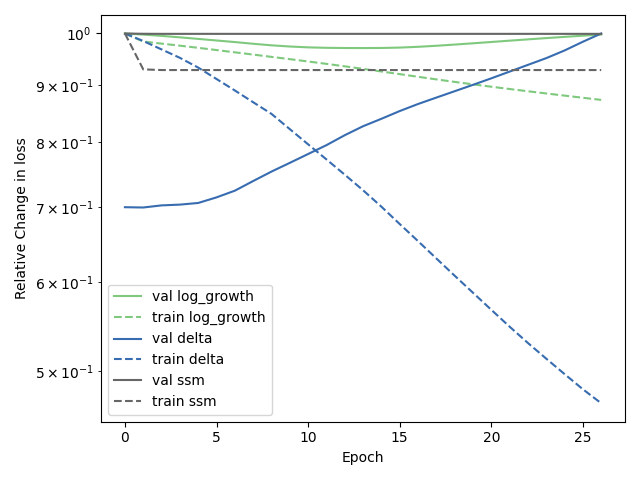
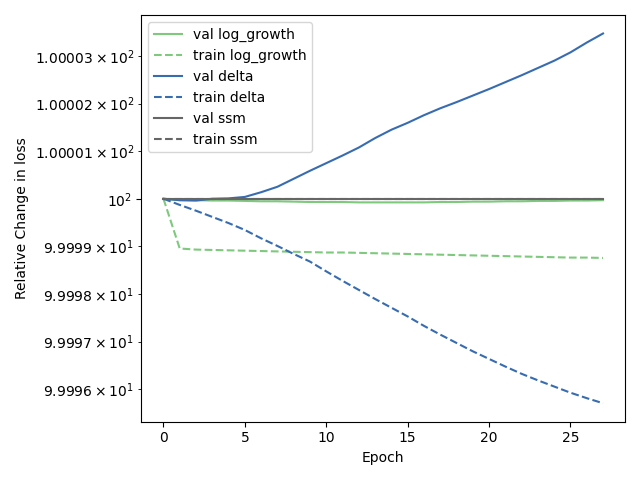
power loss

diff --git a/src/visualize/compare.py b/src/visualize/compare.py
@@ -4,7 +4,7 @@ import matplotlib.pyplot as plt
 from config import Config
 from mpl_toolkits.axes_grid1 import make_axes_locatable
 from powerbox import get_power
-from cosmos import compute_overdensity, to_redshift, normalize, normalize_inv
+from cosmos import compute_overdensity, to_redshift, normalize, normalize_inv, SpectralLoss
 from matplotlib.cm import get_cmap
 
 def compare(
@@ -20,6 +20,8 @@ def compare(
 
     print(num_predictions)
 
+    N = sequences[0].shape[-1]
+
     # Create figure
     fig = plt.figure(layout='constrained', figsize=(4 + 3 * num_predictions, 10),  constrained_layout=True)
     subfigs = fig.subfigures(2, 1, wspace=0.07, hspace=0.1, height_ratios=[2, 1] if num_predictions > 0 else [1, 1])
@@ -29,6 +31,8 @@ def compare(
     # Main sequence analysis part
     # ax_cdf = fig.add_subplot(spec_stats[0], adjustable='box', aspect=0.1)
     ax_power = fig.add_subplot(spec_stats[0], adjustable='box', aspect=0.1)
+    # ax_sl =  fig.add_subplot(spec_stats[1], adjustable='box', aspect=0.1)
+
     cmap = get_cmap('viridis')
     colors = cmap(jnp.linspace(0, 1, 6))
     
@@ -69,6 +73,8 @@ def compare(
         label=fr'sim $z = {to_redshift(step/100):.2f}$')
         # color=colors[frame])
     
+    spectral_loss = SpectralLoss(N, 20)
+    
     # Process predictions
     for idx in range(num_predictions):
 
@@ -94,7 +100,6 @@ def compare(
         delta = compute_overdensity(rho)
 
         rho_pred_normalized = pred_curr[frame]
-        attribs = jax.device_put(attributes_curr[frame + 1], device=jax.devices("gpu")[0])
         rho_pred = normalize_inv(rho_pred_normalized, attribs,  norm_functions[idx])
         delta_pred = compute_overdensity(rho_pred)
 
@@ -171,6 +176,13 @@ def compare(
             k_pred, p_pred,
             label=fr'pred {labels[idx]}')
         
+        # k, p = spectral_loss(delta_pred[:, :, :, 0], delta[:, :, :, 0])
+        # print(k)
+        # print(p)
+        # k *= 60
+        # ax_sl.plot(
+        #     k, p,  label=fr'pred {labels[idx]}')
+        
         # p_pred, k_pred = get_power(delta_pred_filtered[:, :, :, 0], config.box_size)
         # ax_power.plot(
         #     k_pred, p_pred,
@@ -179,6 +191,8 @@ def compare(
 
     # Finalize plots
     
+    # ax_sl.set_yscale('log')
+    # ax_sl.set_xscale('log')
     ax_power.set_yscale('log')
     ax_power.set_xscale('log')
     ax_power.legend(loc='center left', bbox_to_anchor=(1, 0.5))

diff --git a/src/val_compute.py b/src/val_compute.py
@@ -19,7 +19,7 @@ def main(argv) -> None:
     if param == "stride":
         folder = "models/stride"
     if param == "normalization":
-        folder = "models/normalization"
+        folder = "/data/arehma/models/normalization"
 
     files = os.listdir(folder)
     files.sort()
@@ -38,14 +38,14 @@ def main(argv) -> None:
 
         m_params = int(jnp.log2(parameter_count))
 
-        validation_loss = jnp.array(training_stats['metric_step']['val_mse'])[3:]
-        training_loss = jnp.array(training_stats['metric_step']['train_mse'])[3:]
+        validation_loss = jnp.array(training_stats['metric_step']['val_mse'])[2:]
+        training_loss = jnp.array(training_stats['metric_step']['train_mse'])[2:]
         print(validation_loss)
         n = len(validation_loss)
         if param == "stride" or param == "normalization":
             times = jnp.linspace(0, n-1,  n)
-            validation_loss = validation_loss / validation_loss.max()
-            training_loss = training_loss / training_loss.max(0)
+            validation_loss = validation_loss - validation_loss[0] + 100
+            training_loss = training_loss - training_loss[0] + 100
             print(times)
         else:
             times = training_stats['time']

diff --git a/src/cosmos/spectral_loss.py b/src/cosmos/spectral_loss.py
@@ -23,10 +23,13 @@ class SpectralLoss(FrequencyOperation):
         true_k = jnp.fft.rfftn(true)
 
         complex_loss = jnp.zeros(self.n_bins)
-        complex_loss = complex_loss.at[self.index_grid].add((abs(pred_k) - abs(true_k))**2)
+        power = jnp.zeros(self.n_bins)
+        complex_loss = complex_loss.at[self.index_grid].add((abs(pred_k)**2 - abs(true_k)**2)**2)
+        power = power.at[self.index_grid].add(abs(true_k)**2)
 
         # compute the average power
         complex_loss = complex_loss / self.n_modes
+        complex_loss = complex_loss / power
 
         complex_loss = jnp.where(jnp.isnan(complex_loss), 0, complex_loss)
 

diff --git a/src/compare_models.py b/src/compare_models.py
@@ -37,7 +37,7 @@ def main(argv) -> None:
         # labels.append(f"from z={to_redshift((config.file_index_start + config.file_index_stride) / 100):.1f}")
         # labels.append("+ potential" if config.include_potential else "")
         # labels.append(str(config.fno_hidden_channels) + " hidden channels")
-        labels.append("mse" if i == 0 else "mse + power loss")
+        labels.append("mse" if i == 1 else "mse + power loss")
         # labels.append(str(config.fno_n_layers) + " layers")
         print((config.file_index_start + config.file_index_stride) / config.total_index_steps)
 

diff --git a/src/field/mass_assigment.py b/src/field/mass_assigment.py
@@ -55,6 +55,9 @@ def cic_ma(
     yw = (pos[1] % 1.0 - coords[y]) / dx
     zw = (pos[2] % 1.0 - coords[z]) / dx
 
+    offsets = jnp.array([-1, 1])
+    oxs, oys, ozs = jnp.meshgrid(offsets, offsets, offsets)
+
     # assign the mass
     field = field.at[x, y, z].add(weight * (1 - xw) * (1 - yw) * (1 - zw))
     field = field.at[(x + 1) % grid_size, y, z].add(weight * xw * (1 - yw) * (1 - zw))
